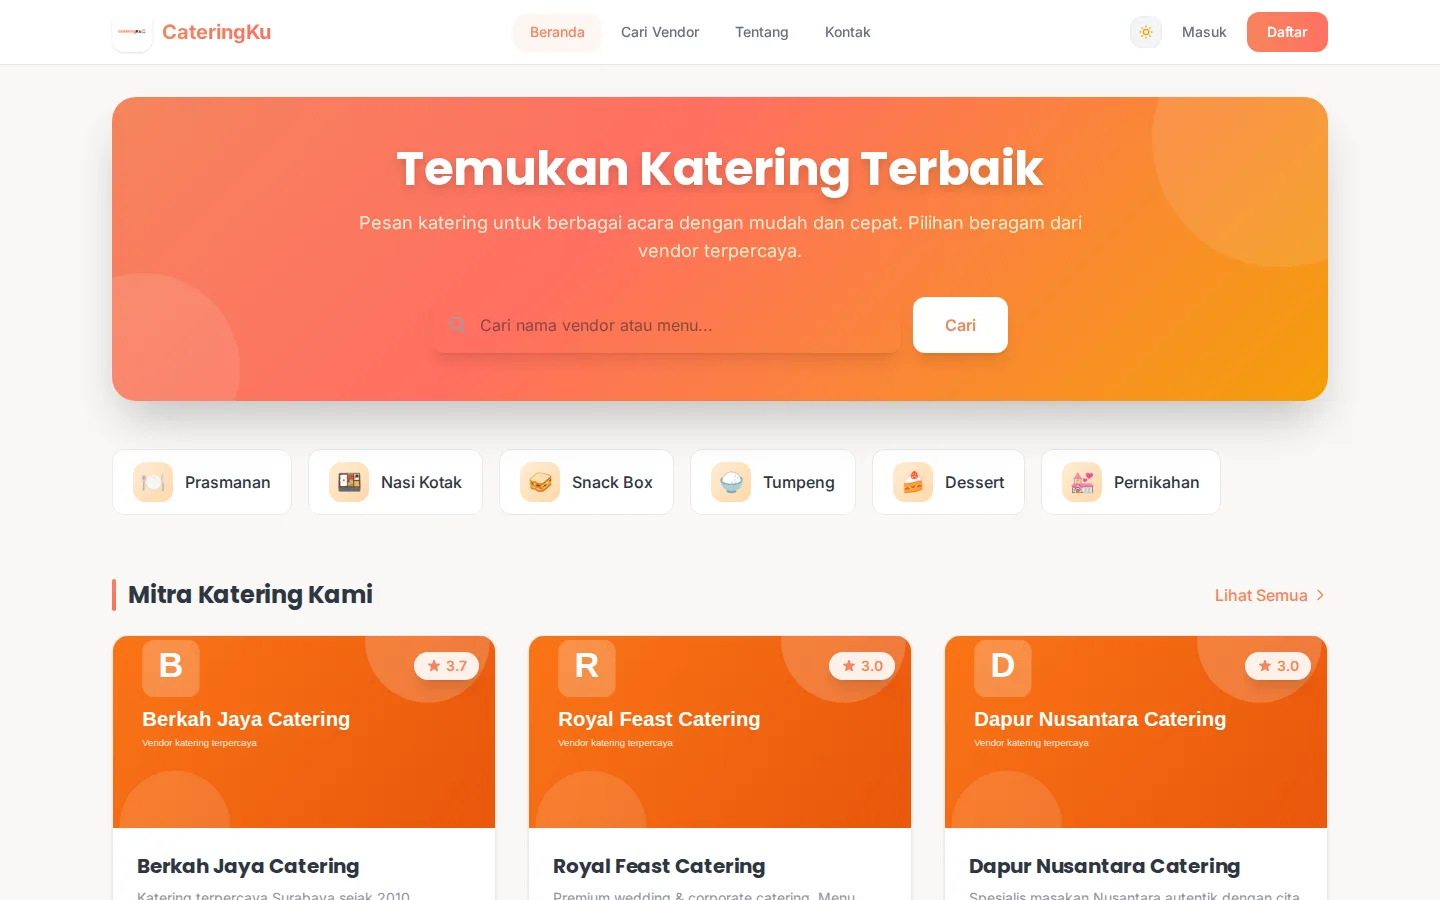
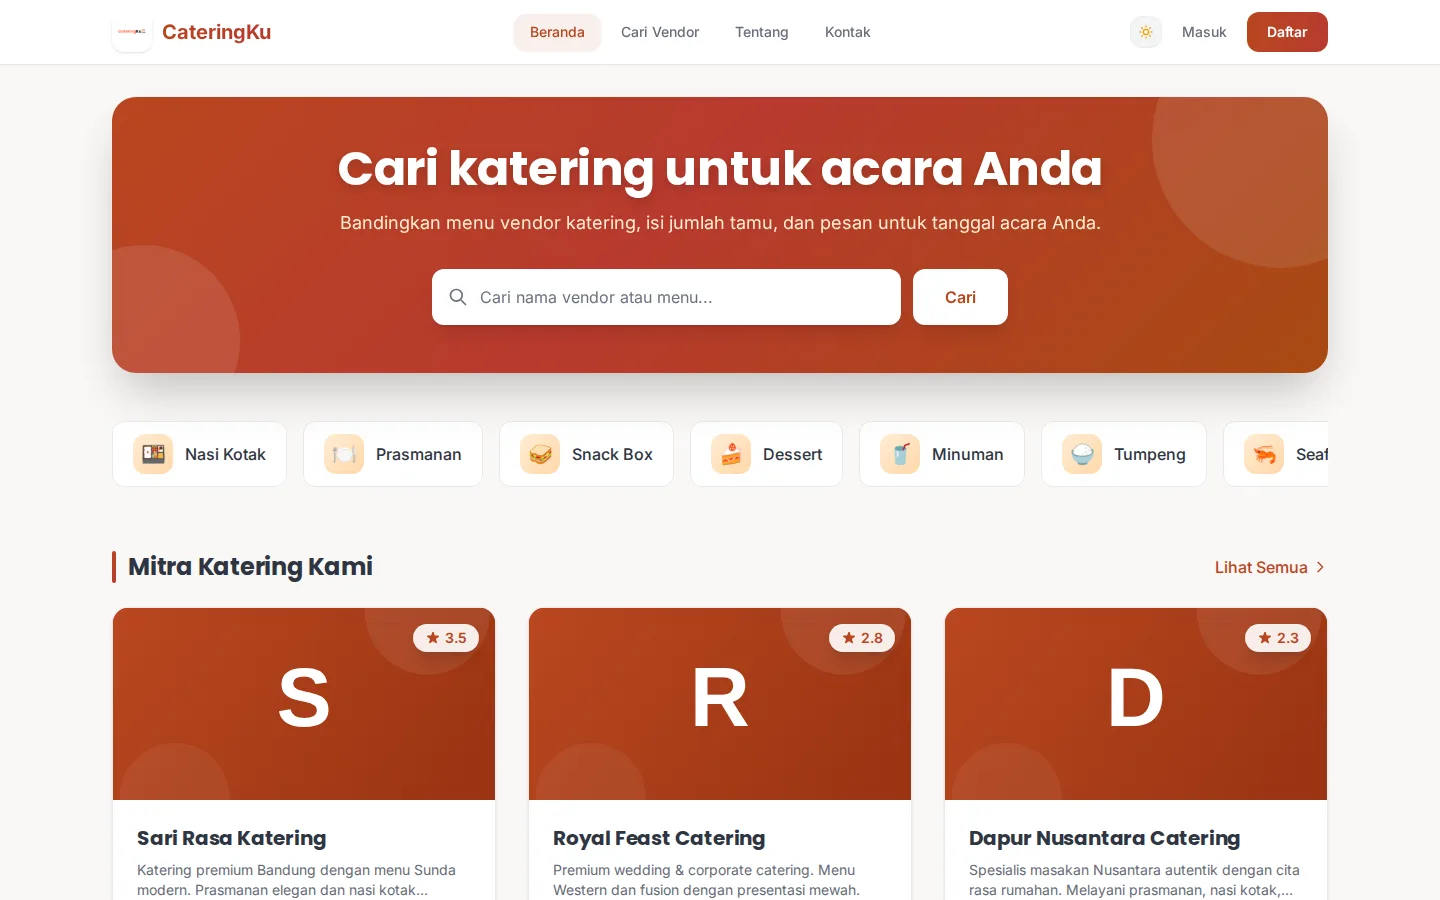
docs: refresh screenshots and document design, a11y and contact config

diff --git a/README.md b/README.md
@@ -1,11 +1,11 @@
 <div align="center">
 
-<img src="docs/banner.jpg" alt="CateringKu — Platform Pemesanan Katering Online" width="100%" />
+<img src="docs/banner.jpg" alt="CateringKu, platform pemesanan katering online" width="100%" />
 
 <br/>
 <br/>
 
-**Pesan katering untuk acara apa pun — dari pilih vendor sampai struk — dalam satu platform.**
+**Pesan katering untuk acara apa pun, dari memilih vendor sampai struk, dalam satu platform.**
 Tiga peran (Pelanggan, Vendor, Admin), kode promo, ulasan, dan pembayaran multi-provider.
 
 <br/>
@@ -34,6 +34,7 @@ Tiga peran (Pelanggan, Vendor, Admin), kode promo, ulasan, dan pembayaran multi-
 - [Perintah](#-perintah)
 - [Akun Demo](#-akun-demo)
 - [Arsitektur](#-arsitektur)
+- [Desain & Aksesibilitas](#-desain--aksesibilitas)
 - [Keamanan](#-keamanan)
 - [Testing & CI](#-testing--ci)
 - [Struktur Proyek](#-struktur-proyek)
@@ -48,20 +49,20 @@ Semua gambar di bawah adalah **tangkapan layar aplikasi yang berjalan** (data da
 
 <table>
   <tr>
-    <td width="50%"><img src="docs/screenshots/01-beranda.webp" alt="Beranda"/><br/><sub><b>Beranda</b> — pencarian vendor dan kategori</sub></td>
-    <td width="50%"><img src="docs/screenshots/02-cari-vendor.webp" alt="Cari vendor"/><br/><sub><b>Cari vendor</b> — filter kota, urut rating/terbaru/nama</sub></td>
+    <td width="50%"><img src="docs/screenshots/01-beranda.webp" alt="Beranda"/><br/><sub><b>Beranda</b>: pencarian vendor dan kategori</sub></td>
+    <td width="50%"><img src="docs/screenshots/02-cari-vendor.webp" alt="Cari vendor"/><br/><sub><b>Cari vendor</b>: filter kota, urut rating/terbaru/nama</sub></td>
   </tr>
   <tr>
-    <td><img src="docs/screenshots/03-detail-vendor.webp" alt="Detail vendor"/><br/><sub><b>Detail vendor</b> — menu, paket, dan ulasan</sub></td>
-    <td><img src="docs/screenshots/08-checkout.webp" alt="Checkout"/><br/><sub><b>Checkout</b> — kode promo, pembayaran multi-provider</sub></td>
+    <td><img src="docs/screenshots/03-detail-vendor.webp" alt="Detail vendor"/><br/><sub><b>Detail vendor</b>: menu, paket, dan ulasan</sub></td>
+    <td><img src="docs/screenshots/08-checkout.webp" alt="Checkout"/><br/><sub><b>Checkout</b>: kode promo, pembayaran multi-provider</sub></td>
   </tr>
   <tr>
-    <td><img src="docs/screenshots/07-keranjang.webp" alt="Keranjang"/><br/><sub><b>Keranjang</b> — satu keranjang per vendor</sub></td>
-    <td><img src="docs/screenshots/09-pesanan-saya.webp" alt="Pesanan saya"/><br/><sub><b>Pesanan saya</b> — status, struk, ulasan</sub></td>
+    <td><img src="docs/screenshots/07-keranjang.webp" alt="Keranjang"/><br/><sub><b>Keranjang</b>: satu keranjang per vendor</sub></td>
+    <td><img src="docs/screenshots/09-pesanan-saya.webp" alt="Pesanan saya"/><br/><sub><b>Pesanan saya</b>: status, struk, ulasan</sub></td>
   </tr>
   <tr>
-    <td><img src="docs/screenshots/10-dashboard-admin.webp" alt="Dashboard admin"/><br/><sub><b>Dashboard admin</b> — statistik, pembayaran tertunda</sub></td>
-    <td><img src="docs/screenshots/12-dashboard-vendor.webp" alt="Dashboard vendor"/><br/><sub><b>Dashboard vendor</b> — pesanan, pendapatan, rating</sub></td>
+    <td><img src="docs/screenshots/10-dashboard-admin.webp" alt="Dashboard admin"/><br/><sub><b>Dashboard admin</b>: statistik, pembayaran tertunda</sub></td>
+    <td><img src="docs/screenshots/12-dashboard-vendor.webp" alt="Dashboard vendor"/><br/><sub><b>Dashboard vendor</b>: pesanan, pendapatan, rating</sub></td>
   </tr>
 </table>
 
@@ -78,7 +79,7 @@ Semua gambar di bawah adalah **tangkapan layar aplikasi yang berjalan** (data da
 </details>
 
 <details>
-<summary><b>Desain awal (mockup)</b> — sebelum diimplementasikan</summary>
+<summary><b>Desain awal (mockup)</b>: sebelum diimplementasikan</summary>
 <br/>
 
 | | |
@@ -118,6 +119,17 @@ bash run.sh dev        # Windows: .\run.bat dev
 
 `setup` memasang dependensi, membuat `.env` dari `.env.example`, membuat `APP_KEY`, migrasi, dan mengisi data demo.
 Buka **http://localhost:8000**.
+
+**Kontak & media sosial** di footer dan halaman Kontak diambil dari `.env`. Selama kosong, bagian itu disembunyikan, jadi situs tidak pernah menampilkan nomor telepon karangan atau ikon sosial yang mengarah ke `#`.
+
+```dotenv
+CATERINGKU_CONTACT_EMAIL=halo@domainanda.id
+CATERINGKU_CONTACT_PHONE="0812-xxxx-xxxx"
+CATERINGKU_CONTACT_ADDRESS="Jl. ..., Kota"
+CATERINGKU_CONTACT_HOURS="Senin sampai Sabtu, 08.00 sampai 17.00"
+CATERINGKU_INSTAGRAM_URL=https://instagram.com/akunanda
+CATERINGKU_WHATSAPP_URL=https://wa.me/62812xxxxxxx
+```
 
 <details>
 <summary>Tanpa script (manual)</summary>
@@ -198,14 +210,30 @@ erDiagram
     ORDERS ||--o| PROMO_USAGE : "memakai"
 ```
 
-**Alur harga** — keranjang menyimpan *jumlah per tamu*; saat checkout jumlah dikali `num_people`.
+**Alur harga:** keranjang menyimpan *jumlah per tamu*; saat checkout jumlah dikali `num_people`.
 `subtotal − diskon promo → PPN 11% → + ongkir Rp 15.000 = total`. Semua dihitung di `app/Services/OrderPricing.php`, dipakai bersama oleh pratinjau promo dan checkout.
+
+---
+
+## 🎨 Desain & Aksesibilitas
+
+Arah desain mengikuti mockup awal di [`docs/design/`](docs/design): oranye CateringKu, Poppins untuk judul, dan kartu vendor yang hangat. UI diaudit dengan gerbang **antislop** (tanpa klaim palsu, angka tanpa sumber, link mati, atau em dash) dan **WCAG 2.1 AA**:
+
+| Keputusan | Alasan |
+|---|---|
+| Oranye brand untuk teks dan tombol digelapkan ke karat `#B8461F` | Putih di atas `#F5845C` hanya 2.5:1; `#B8461F` memberi 5.3:1 tanpa keluar dari keluarga warna mockup |
+| `#F5845C` tetap dipakai untuk teks di mode gelap | 6.5:1 di atas latar gelap |
+| Statistik di halaman Tentang dihitung langsung dari database | Tidak ada angka marketing tanpa sumber |
+| Placeholder vendor berupa monogram inisial | Tidak menulis klaim apa pun atas nama vendor |
+| Petak ikon dashboard memakai satu tint brand | Sebelumnya tiap kartu punya gradien pelangi berbeda |
+
+Diperiksa dengan browser otomatis di 22 halaman × mode terang/gelap × lebar 1440 px dan 360 px: tidak ada overflow horizontal, tidak ada error console, semua teks lolos kontras AA (kecuali tautan pagination nonaktif, yang dikecualikan WCAG). Semua kontrol punya nama aksesibel, semua field punya label, dan fokus keyboard selalu terlihat. Animasi berhenti saat `prefers-reduced-motion` aktif.
 
 ---
 
 ## 🔒 Keamanan
 
-- **Harga tidak pernah dipercaya dari browser** — subtotal, diskon, pajak, dan total dihitung ulang dari database saat checkout.
+- **Harga tidak pernah dipercaya dari browser.** Subtotal, diskon, pajak, dan total dihitung ulang dari database saat checkout.
 - **Promo**: validasi di server (masa berlaku, vendor, minimal order, satu kali per pelanggan), penghitung `used_count` atomik sehingga batas pemakaian tidak bisa dilampaui checkout paralel.
 - **Keranjang**: item harus milik vendor yang sama dan masih tersedia; jumlah dibatasi.
 - **Otorisasi**: pelanggan hanya melihat pesanannya, vendor hanya pesanan & menunya sendiri (diuji di `AccessControlTest`).
@@ -223,7 +251,7 @@ Menemukan celah? Buka [issue](https://github.com/zynxx24/CateringKu-ZynxWira-/is
 cd CateringKu && php artisan test
 ```
 
-**68 tes** (Pest): autentikasi, 2FA, pengaturan akun, keranjang, checkout, promo, dan kontrol akses antar-peran.
+**72 tes** (Pest): autentikasi, 2FA, pengaturan akun, keranjang, checkout, promo, kontrol akses antar-peran, filter kategori, statistik halaman Tentang, dan kontak dari konfigurasi.
 
 GitHub Actions ([`laravel.yml`](.github/workflows/laravel.yml)) menjalankan di setiap push/PR ke `main`:
 
@@ -261,7 +289,7 @@ GitHub Actions ([`laravel.yml`](.github/workflows/laravel.yml)) menjalankan di s
 
 1. Fork, lalu buat branch: `git checkout -b fitur/nama-fitur`
 2. Pastikan lolos sebelum commit: `composer lint` · `php artisan test` · `npm run types:check`
-3. Buka Pull Request ke `main` — CI akan berjalan otomatis.
+3. Buka Pull Request ke `main`; CI akan berjalan otomatis.
 
 ---
 
